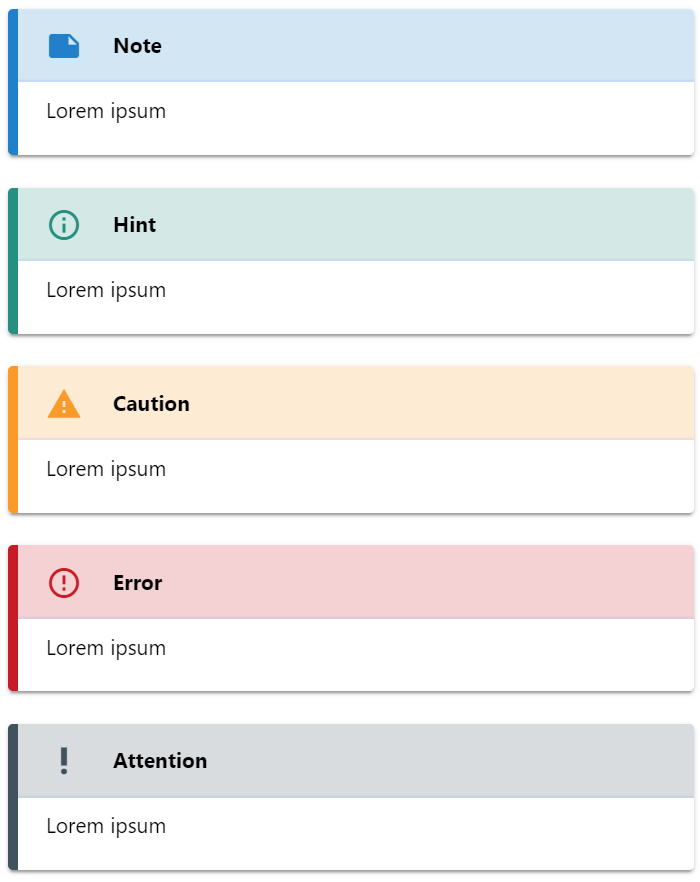
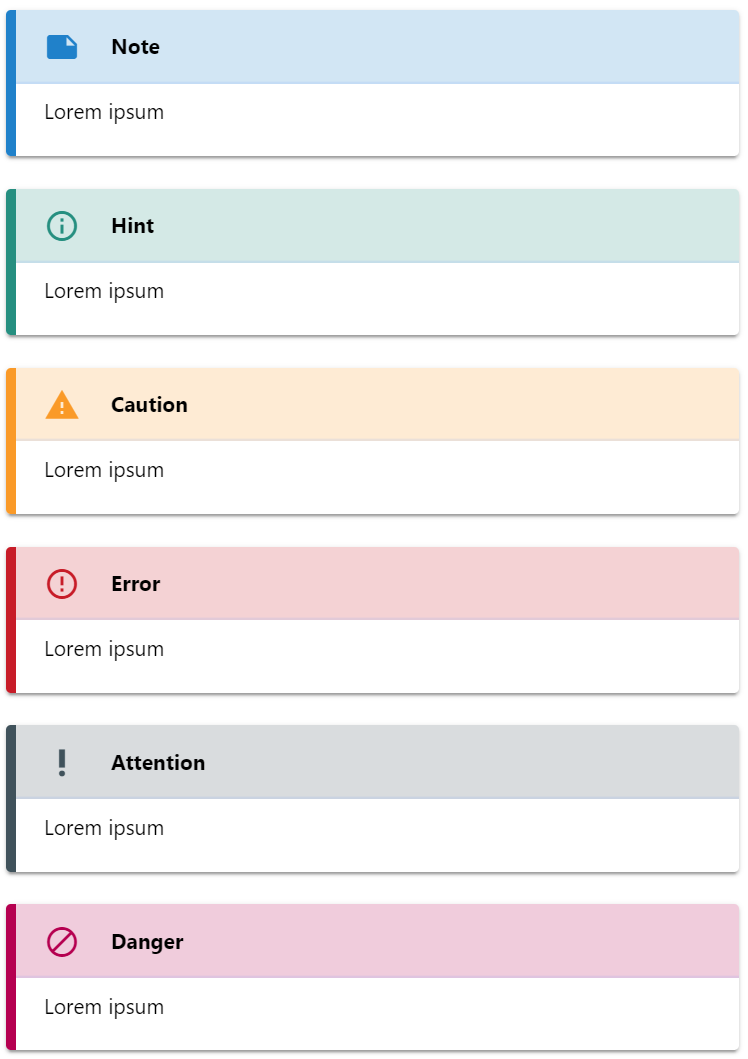
✨ Add auto linking and danger admonition

diff --git a/BOOSTNOTE_MARKDOWN_CHEAT_SHEET.md b/BOOSTNOTE_MARKDOWN_CHEAT_SHEET.md
@@ -66,8 +66,10 @@ H~2~0
 29^th^
 
 ### Link
-[Boostnote](https://boostnote.io)
-[Go to line 200](:line:200)
+`Simple link`:  https://en.wikipedia.org/wiki/Microsoft_Notepad
+`Named link`:   [Boostnote](https://boostnote.io)
+`Auto linking`: - google.com
+`Jump to line`: [Go to line 200](:line:200)
 
 ### Check box
 - [x] Task 1
@@ -217,6 +219,10 @@ Lorem ipsum
 !!!
 
 !!! attention Attention
+Lorem ipsum
+!!!
+
+!!! danger Danger
 Lorem ipsum
 !!!
 

diff --git a/README.md b/README.md
@@ -64,7 +64,10 @@ It tries to give a short summery of all formatting options which are available i
 ![mermaid](attachments/superscript.png?raw=true)
 
 ### Link
-[Boostnote](https://boostnote.io)
+`Simple link`:  https://en.wikipedia.org/wiki/Microsoft_Notepad
+`Named link`:   [Boostnote](https://boostnote.io)
+`Auto linking`: [google.com](https://google.com)
+`Jump to line`: [Go to line 200](:line:200)
 
 ### Check box
 - [x] Task 1
